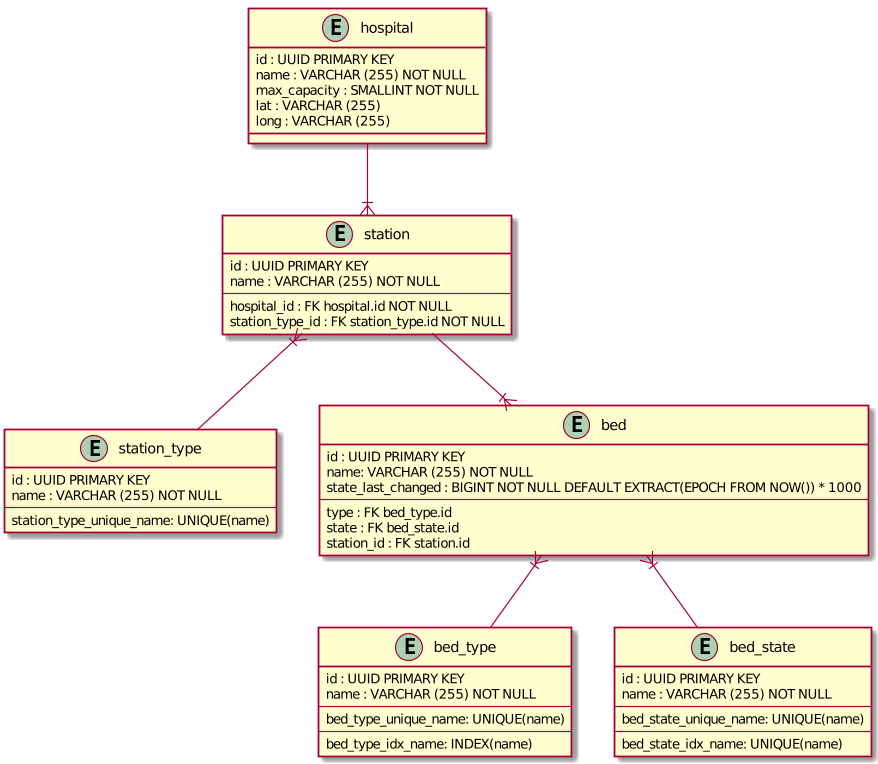
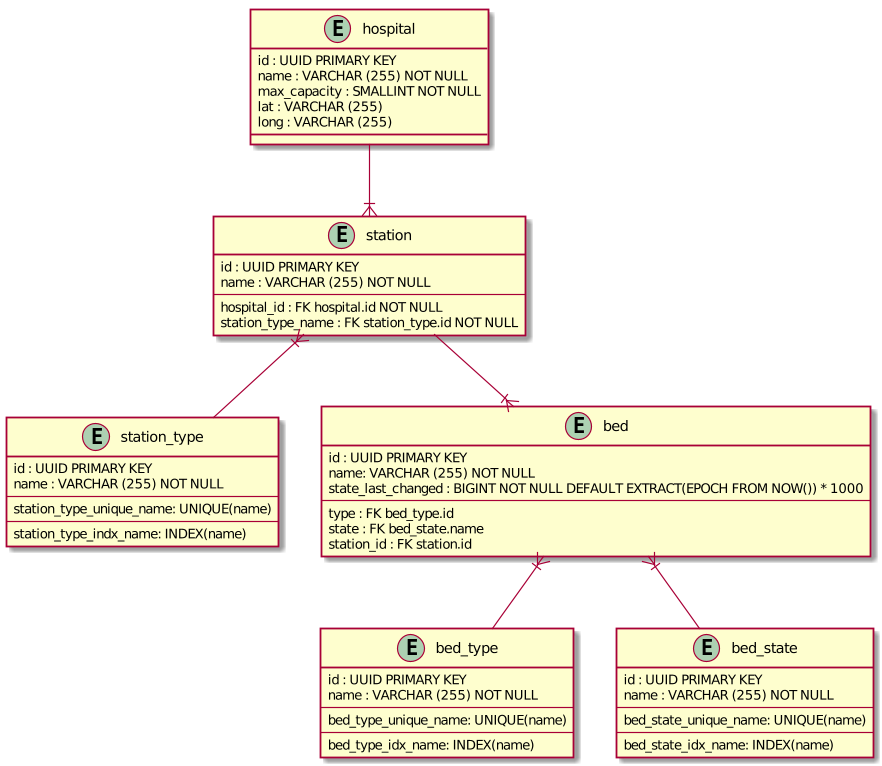
[Add datamodel images]:
- Referencing bed_type, station_type and bed_status only by name

diff --git a/datamodel/simple/README.md b/datamodel/simple/README.md
@@ -41,7 +41,7 @@ Fields:
 - `id`: the unique `UUID`.
 - `name`: the name of the station, as `VARCHAR (255) NOT NULL`.
 - `hospital_id`: the foreign key to the corresponding `hospital`. This database column should be indexed. Not nullable.
-- `station_type_id`: the foreign key to the corresponding `station_type`. This database column should be indexed. Not 
+- `station_type_name`: the foreign key to the corresponding `station_type`. This database column should be indexed. Not 
     nullable.
 
 # bed type data type
@@ -69,7 +69,7 @@ Fields:
 - `occupied_last_changed`: the UNIX-timestamp when the `current_occupied` attribute was last changed as 
     `BIGINT NOT NULL DEFAULT EXTRACT(EPOCH FROM NOW() * 1000)`.
 - `station_id`: the foreign key to the corresponding `station`. This database column should be indexed. Not nullable.
-- `bed_type_id`: the foreign key to the corresponding `bed_type`. This database column should be indexed. Not nullable.
+- `bed_type_name`: the foreign key to the corresponding `bed_type`. This database column should be indexed. Not nullable.
 
 Implementation detail:
 
